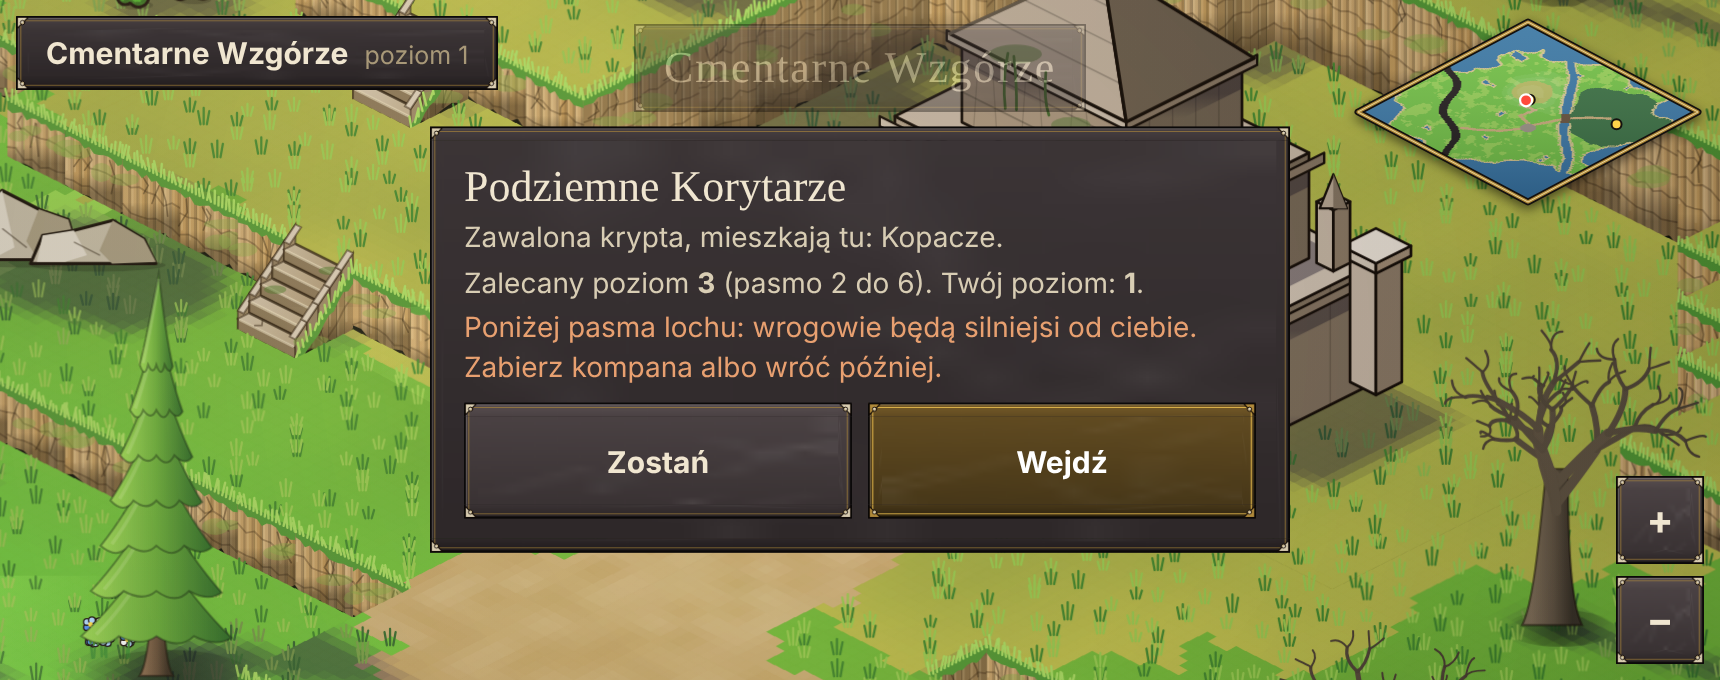
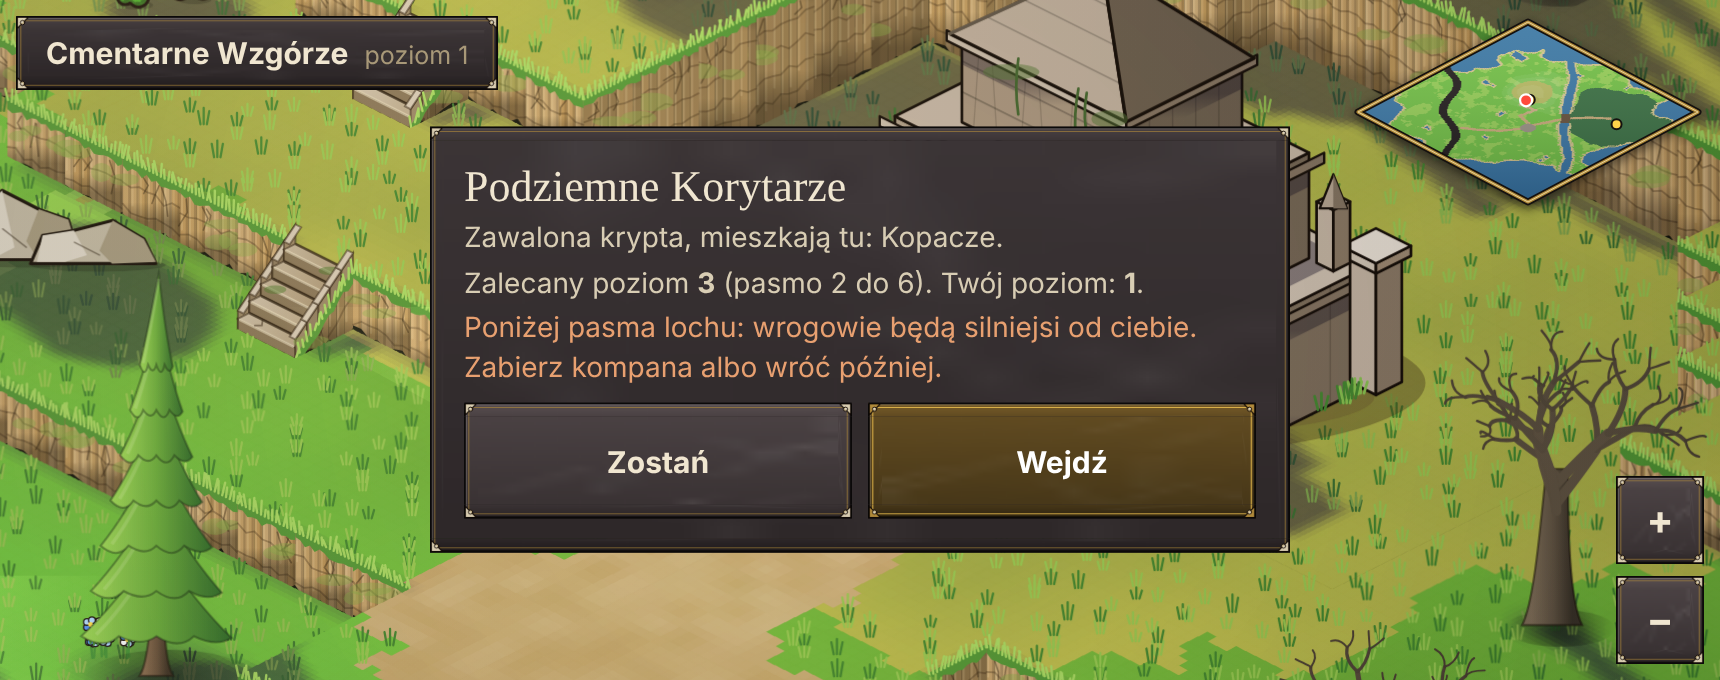
Cienie miękkie i osadzone: gęstsza mapa z rozmyciem, cień ku widzowi, krypta z trzech brył, jama z korzeniami i ściółką, trawa przy podstawie krypty
Claude-Session: https://claude.ai/code/session_01YGgK3XekFYaLDhBRBtmmRq

diff --git a/src/art/entrances.js b/src/art/entrances.js
@@ -37,7 +37,7 @@ export function drawEntrance(g, x, y, sp) {
     // rzeźbione czaszki (w płaszczyźnie ściany), obeliski na narożnikach, piramidowy dach, schody, pochodnie i obozowisko
     const stone = sp.stone, cols = (k) => ({ left: shade(stone, 0.06 - k * 0.03), right: shade(stone, -0.14 - k * 0.03), top: shade(stone, 0.16 - k * 0.04) });
     const colsP = { left: shade(stone, 0.12), right: shade(stone, -0.1), top: shade(stone, 0.24) };
-    blob(10, 5, 150, 30, '#000', 0.34);
+    blob(10, 5, 150, 30, '#000', 0.34); blob(0, 14, 190, 44, '#3a2c18', 0.38); blob(40, 22, 120, 22, '#5a4428', 0.3);
     const tiers = [[210, 150, 70], [160, 112, 62], [108, 76, 54]]; let z = 0; const Ps = [];
     tiers.forEach(([lx, ly, h], i) => {
       // cień piętra wyżej leży na dachu tego niżej (światło z lewej góry rzuca go w prawo)
@@ -96,6 +96,8 @@ export function drawEntrance(g, x, y, sp) {
       ln([P2(-a2, b3, h2 - 2), ap], 2, 'rgba(255,240,210,.3)'); }
     // pochodnie na żelaznych słupach przy portyku
     for (const sd of [-1, 1]) { const t = P0(sd * (px + 26), py + 6, 0), tt = [t[0], t[1] - 70]; ln([t, tt], 3.4, '#2a2018'); ell(tt[0], tt[1] - 2, 6, 3, '#3a3028', 1.4); glowAt(g, tt[0], tt[1] - 12, 50, '255,150,60', 0.55 * sp.glow); g.fillStyle = '#ffb848'; g.beginPath(); g.ellipse(tt[0], tt[1] - 10, 4, 9 + (r() - 0.5) * 3, 0, 0, 7); g.fill(); g.fillStyle = '#fff0b0'; g.beginPath(); g.ellipse(tt[0], tt[1] - 8, 1.8, 4.6, 0, 0, 7); g.fill(); }
+    // kępy trawy i kamyki przy podstawie murów: budowla wyrasta z ziemi, a nie stoi na niej
+    for (let i = 0; i < 26; i++) { const onFront = i < 14, u = onFront ? r.range(-a0 - 10, a0) : r.range(-b0, b0 - 6), p = onFront ? P0(u, b0 + r.range(0, 5), 0) : P0(a0 + r.range(0, 5), u, 0); if (onFront && Math.abs(u) < dw + 40 && Math.abs(u) > 0) continue; const h = r.range(6, 11); g.strokeStyle = r() < 0.5 ? '#3a7a2a' : '#7ab048'; g.lineWidth = 1.6; g.lineCap = 'round'; g.beginPath(); g.moveTo(p[0] - 2, p[1]); g.lineTo(p[0] - 4, p[1] - h); g.moveTo(p[0], p[1]); g.lineTo(p[0], p[1] - h - 2); g.moveTo(p[0] + 2, p[1]); g.lineTo(p[0] + 4, p[1] - h); g.stroke(); }
     // mech i pnącza na piętrach, zawalony narożnik
     if (sp.moss) for (let i = 0; i < 12; i++) { const P = Ps[i % 3], q = P(r.range(-50, 50), 20, r.range(2, 40)); blob(q[0], q[1], r.range(8, 18), r.range(3, 6), '#4a6a30', 0.5); }
     for (let i = 0; i < 3; i++) { const P = Ps[2], t = P(r.range(-30, 30), 38, 54); g.beginPath(); g.moveTo(t[0], t[1]); g.quadraticCurveTo(t[0] + r.range(-6, 6), t[1] + 16, t[0] + r.range(-3, 3), t[1] + r.range(24, 40)); g.lineWidth = 1.6; g.strokeStyle = '#3a5a28'; g.stroke(); }
@@ -106,12 +108,26 @@ export function drawEntrance(g, x, y, sp) {
     for (let i = 0; i < sp.slabs; i++) { const p = P0(-a0 - 70 - i * 22, b0 + 10, 0); grave(g, p[0], p[1], 0.9); }
   } else {
     // olbrzymie drzewo (to samo malarskie drzewo co w lesie, tylko większe) z jamą między korzeniami, pajęczynami i kokonami
-    const tw = sp.trunkW * 1.5, th = sp.height * 1.15;
+    const tw = sp.trunkW * 1.5, th = sp.height * 1.15, hw = tw * 0.34;
+    // podłoże: ciemna ściółka pod koroną i wydeptana ziemia przed dziuplą, żeby drzewo wyrastało z gruntu
+    blob(0, 6, tw * 2.6, 16, '#120c06', 0.5); blob(tw * 0.2, 12, tw * 1.5, 9, '#6a4e2c', 0.7); blob(tw * 0.5, 16, tw * 0.9, 6, '#7e603a', 0.5);
+    for (let i = 0; i < 16; i++) { const lx = r.range(-tw * 2.2, tw * 2.2), ly = r.range(-2, 18); ell(lx, ly, r.range(2, 4), r.range(1, 2), r.pick(['#5a3a1a', '#6a4a22', '#3a4a1a']), 0); }
     drawTree(g, 0, 0, { ...genTree(sp.seed, 'swamp', 'dark'), trunkW: tw * 0.7, trunkH: th, crownW: 150, crownH: 96, blobs: 12, clumps: 22, vines: 12, lean: 4 });
+    // tylne korzenie
     for (let i = 0; i < sp.roots; i++) { const sd = i % 2 ? 1 : -1, t = Math.floor(i / 2), len = tw * (1.0 + t * 0.4) * r.range(0.8, 1.2), yy = r.range(-4, 5) - t * 2; g.beginPath(); g.moveTo(sd * tw * 0.3, -18); g.bezierCurveTo(sd * tw * 0.7, -6 - t, sd * len * 0.9, yy - 8, sd * len * 1.25, yy + 3); g.bezierCurveTo(sd * len * 0.9, yy + 3, sd * tw * 0.8, 4, sd * tw * 0.15, 3); g.closePath(); g.fillStyle = shade(sp.bark, sd < 0 ? 0.05 : -0.05); g.fill(); g.lineWidth = 1.4; g.strokeStyle = 'rgba(20,10,6,.55)'; g.stroke(); }
-    ell(0, -16, tw * 0.5, 26, '#080406', 2.4); glowAt(g, 0, -15, 40, '120,200,140', 0.22 * sp.glow);
-    for (let i = 0; i < sp.webs; i++) { const yy = -36 + i * 8; ln([[-tw * 0.46, yy + 12], [-tw * 0.12, yy], [tw * 0.14, yy + 6], [tw * 0.46, yy + 13]], 1, 'rgba(235,235,250,.8)'); }
-    ln([[-tw * 0.48, -2], [tw * 0.1, -40], [tw * 0.48, -3]], 1, 'rgba(235,235,250,.75)'); ln([[0, -42], [0, -1]], 0.9, 'rgba(235,235,250,.65)');
+    // dziupla: łuk z płaską podłogą, głęboka ciemność i widoczna kora wokół otworu
+    g.beginPath(); g.moveTo(-hw * 1.15, 3); g.lineTo(-hw, -16); g.quadraticCurveTo(-hw * 1.05, -40, 0, -43); g.quadraticCurveTo(hw * 1.05, -40, hw, -16); g.lineTo(hw * 1.15, 3); g.closePath();
+    const hg = g.createRadialGradient(0, -14, 2, 0, -14, hw * 1.7); hg.addColorStop(0, '#020103'); hg.addColorStop(0.7, '#0a100c'); hg.addColorStop(1, '#1d2a20'); g.fillStyle = hg; g.fill(); g.lineWidth = 3.4; g.strokeStyle = '#1e120a'; g.stroke();
+    g.save(); g.beginPath(); g.moveTo(-hw * 1.15, 3); g.lineTo(-hw, -16); g.quadraticCurveTo(-hw * 1.05, -40, 0, -43); g.quadraticCurveTo(hw * 1.05, -40, hw, -16); g.lineTo(hw * 1.15, 3); g.closePath(); g.clip();
+    glowAt(g, 0, -15, 40, '120,200,140', 0.2 * sp.glow); ell(0, 2, hw * 1.1, 4, '#26331f', 0); g.restore();
+    g.strokeStyle = 'rgba(255,225,170,.28)'; g.lineWidth = 1.6; g.beginPath(); g.moveTo(-hw * 1.02, -18); g.quadraticCurveTo(-hw * 1.02, -38, -hw * 0.2, -41.5); g.stroke();
+    // korzenie przed otworem: grube łuki oplatające dziuplę i wrastające w ziemię
+    for (const sd of [-1, 1]) { const x0 = sd * hw * 1.05; g.lineCap = 'round';
+      for (const [wd, col] of [[10, shade(sp.bark, -0.18)], [7, sp.bark], [2.6, shade(sp.bark, 0.2)]]) { g.beginPath(); g.moveTo(x0, -36); g.bezierCurveTo(sd * hw * 2.4, -30, sd * hw * 2.6, -8, sd * hw * 3.6, 5); g.lineWidth = wd; g.strokeStyle = col; g.stroke(); }
+      blob(sd * hw * 3.6, 5, 10, 4, '#120c06', 0.5); }
+    for (let i = 0; i < 9; i++) { const gx = r.range(-tw * 1.7, tw * 1.7), gy = r.range(2, 12); g.strokeStyle = r() < 0.5 ? '#2f5a2c' : '#4a7a3a'; g.lineWidth = 1.5; g.beginPath(); g.moveTo(gx - 2, gy); g.lineTo(gx - 3.5, gy - 8); g.moveTo(gx, gy); g.lineTo(gx, gy - 10); g.moveTo(gx + 2, gy); g.lineTo(gx + 3.5, gy - 8); g.stroke(); }
+    for (let i = 0; i < sp.webs; i++) { const yy = -36 + i * 8; ln([[-hw * 1.05, yy + 12], [-hw * 0.3, yy], [hw * 0.35, yy + 6], [hw * 1.05, yy + 13]], 1, 'rgba(235,235,250,.8)'); }
+    ln([[-hw * 1.05, -2], [hw * 0.3, -40], [hw * 1.05, -3]], 1, 'rgba(235,235,250,.75)'); ln([[0, -42], [0, -1]], 0.9, 'rgba(235,235,250,.65)');
     if (sp.eyes) { circ(-6, -17, 2, '#ffe060', 0); circ(6, -17, 2, '#ffe060', 0); glowAt(g, 0, -17, 20, '255,220,90', 0.4); }
     for (let i = 0; i < sp.eggs + 3; i++) { const ex2 = r.range(-tw * 1.5, tw * 1.5), ey2 = r.range(-2, 12), s2 = r.range(3, 5); ell(ex2, ey2 - s2, s2, s2 * 1.3, '#d4d0c4', 1.3); }
     for (let i = 0; i < sp.shrooms + 3; i++) { const mx = r.range(-tw * 1.4, tw * 1.4), my = r.range(-2, 10), s2 = r.range(2.5, 5); ln([[mx, my], [mx, my - s2 * 1.4]], 1.8, '#e0d8c0'); ell(mx, my - s2 * 1.5, s2 * 1.4, s2 * 0.9, '#a05a3a', 1.2); }

diff --git a/src/art/worldview.js b/src/art/worldview.js
@@ -13,7 +13,7 @@ import { genTree, drawTree } from './trees.js';
 import * as NA from './nature.js';
 import { lampPost, bench, barrel, crate, cart, sack, logs } from './props.js';
 
-export const MAXZ = 8, CS = 6, SUB = 8, SHS = 6;
+export const MAXZ = 8, CS = 6, SUB = 8, SHS = 12, SHB = 2;
 
 export const makeGrid = () => new IsoGrid(N, N, { x: N * 36, y: MAXZ * HZ + 60 });
 
@@ -58,26 +58,33 @@ export class WorldView {
   }
   // mapa cieni bloku: próbki 4 x 4 na kafel (z ramką 1), liczone raz przy pieczeniu; cień rzucają teren, drzewa, budynki, a pod koronami jest półcień
   shadeGrid(x0, y0) {
-    const S = SHS, n = CS * S + 2, arr = new Float32Array(n * n), w = this.w;
+    const S = SHS, B = SHB, n = CS * S + 2 * B, arr = new Float32Array(n * n), w = this.w;
     for (let j = 0; j < n; j++) for (let i = 0; i < n; i++) {
-      const px = x0 + (i - 1 + 0.5) / S, py = y0 + (j - 1 + 0.5) / S; if (px < 0 || py < 0 || px >= N || py >= N) continue;
+      const px = x0 + (i - B + 0.5) / S, py = y0 + (j - B + 0.5) / S; if (px < 0 || py < 0 || px >= N || py >= N) continue;
       const kind = w.cellKind[Math.floor(py) * N + Math.floor(px)]; if (kind === w.KIND.water || kind === w.KIND.chasm) continue;
       const z = heightAt(w, px, py), sun = sunShadow(w, this.occ, px, py, z), can = canopyShade(w, this.occ, px, py, 5);
-      arr[j * n + i] = Math.min(0.58, 0.44 * sun + 0.4 * can);
+      arr[j * n + i] = Math.min(0.58, 0.5 * sun + 0.4 * can);
     }
-    const bl = new Float32Array(n * n); for (let j = 1; j < n - 1; j++) for (let i = 1; i < n - 1; i++) { let v = 0; for (let dj = -1; dj <= 1; dj++) for (let di = -1; di <= 1; di++) v += arr[(j + dj) * n + i + di] * (di || dj ? 1 : 2); bl[j * n + i] = v / 10; }
+    // rozmycie 5 x 5 (trójkątne wagi 1 2 3 2 1): miękki półcień zamiast schodków
+    const K = [1, 2, 3, 2, 1], tmp = new Float32Array(n * n), bl = new Float32Array(n * n);
+    for (let j = 0; j < n; j++) for (let i = 2; i < n - 2; i++) { let v = 0; for (let d = -2; d <= 2; d++) v += arr[j * n + i + d] * K[d + 2]; tmp[j * n + i] = v / 9; }
+    for (let j = 2; j < n - 2; j++) for (let i = 0; i < n; i++) { let v = 0; for (let d = -2; d <= 2; d++) v += tmp[(j + d) * n + i] * K[d + 2]; bl[j * n + i] = v / 9; }
     return { x0, y0, n, arr, bl };
   }
   drawTile(g, tx, ty) {
     const w = this.w, k = ty * N + tx, z = this.cornersZ(tx, ty), P = (fx, fy, zz) => this.proj(tx + fx, ty + fy, zz), K = w.KIND, kind = w.cellKind[k];
     if (w.ramp[k]) return this.drawRamp(g, tx, ty, z);
-    const e = 0.7, SUBN = SHS, sg = this.sg, sn = sg.n, six = (tx - sg.x0) * SHS + 1, siy = (ty - sg.y0) * SHS + 1, TINT = [22, 12, 52]; let tileShade = 0;
+    const e = 0.7, SUBN = SUB - 2, R = SHS / SUBN, sg = this.sg, sn = sg.n, six = (tx - sg.x0) * SHS + SHB, siy = (ty - sg.y0) * SHS + SHB, TINT = [22, 12, 52]; let tileShade = 0;
+    const mix = (col, sh) => (sh > 0.01 ? rgbStr([col[0] + (TINT[0] - col[0]) * sh, col[1] + (TINT[1] - col[1]) * sh, col[2] + (TINT[2] - col[2]) * sh]) : rgbStr(col));
+    const quad = (u0, v0, u1, v1, zz) => { const a = P(u0, v0, zz), b = P(u1, v0, zz), c = P(u1, v1, zz), d = P(u0, v1, zz); g.beginPath(); g.moveTo(a[0], a[1] - e); g.lineTo(b[0] + e, b[1]); g.lineTo(c[0], c[1] + e); g.lineTo(d[0] - e, d[1]); g.closePath(); g.fill(); };
     for (let j = 0; j < SUBN; j++) for (let i = 0; i < SUBN; i++) {
-      const u0 = i / SUBN, u1 = (i + 1) / SUBN, v0 = j / SUBN, v1 = (j + 1) / SUBN, zz = z[0];
-      const a = P(u0, v0, zz), b = P(u1, v0, zz), c = P(u1, v1, zz), d = P(u0, v1, zz);
-      const col = groundRGB(w, tx + (u0 + u1) / 2, ty + (v0 + v1) / 2), sh = sg.bl[(siy + j) * sn + six + i]; tileShade += sh;
-      g.fillStyle = sh > 0.01 ? rgbStr([col[0] + (TINT[0] - col[0]) * sh, col[1] + (TINT[1] - col[1]) * sh, col[2] + (TINT[2] - col[2]) * sh]) : rgbStr(col);
-      g.beginPath(); g.moveTo(a[0], a[1] - e); g.lineTo(b[0] + e, b[1]); g.lineTo(c[0], c[1] + e); g.lineTo(d[0] - e, d[1]); g.closePath(); g.fill();
+      const u0 = i / SUBN, u1 = (i + 1) / SUBN, v0 = j / SUBN, v1 = (j + 1) / SUBN, zz = z[0], col = groundRGB(w, tx + (u0 + u1) / 2, ty + (v0 + v1) / 2);
+      // R x R próbek cienia na jeden kolorowy romb; gdy cień w nim niemal stały, jeden romb, a w półcieniu dzielimy dalej
+      const sv = []; let lo = 9, hi = -9, sum = 0;
+      for (let q = 0; q < R * R; q++) { const v = sg.bl[(siy + j * R + Math.floor(q / R)) * sn + six + i * R + (q % R)]; sv.push(v); lo = Math.min(lo, v); hi = Math.max(hi, v); sum += v; }
+      tileShade += sum / (R * R);
+      if (hi - lo < 0.025) { g.fillStyle = mix(col, sum / (R * R)); quad(u0, v0, u1, v1, zz); continue; }
+      for (let q = 0; q < R * R; q++) { const qi = q % R, qj = Math.floor(q / R); g.fillStyle = mix(col, sv[q]); quad(u0 + qi / (R * SUBN), v0 + qj / (R * SUBN), u0 + (qi + 1) / (R * SUBN), v0 + (qj + 1) / (R * SUBN), zz); }
     }
     tileShade /= SUBN * SUBN;
     // trawiaste kępki malarsko pokrywają równe powierzchnie

diff --git a/src/world/shadowmap.js b/src/world/shadowmap.js
@@ -1,11 +1,11 @@
 // Mapa cieni świata: dla punktu gruntu liczy, czy promień do słońca przechodzi przez teren (ściany tarasów), drzewa, budynki albo wejścia.
-// Czysta logika, bez rysowania. Światło pada z lewej góry (na ekranie), więc cienie biegną w stronę +x i trochę -y siatki.
+// Czysta logika, bez rysowania. Światło pada z lewej góry (na ekranie), więc cienie biegną w stronę +x i trochę +y siatki (w prawo i w dół, ku widzowi).
 // Wysokości w poziomach (1 poziom = HZ px). Cień jest więc zawsze rzutowany na właściwą platformę, a ściana tarasu rzuca cień na niższy.
 import { N } from './kraina.js';
 import { heightAt } from './nav.js';
 import { hash2 } from './noise.js';
 
-export const SUN = { dx: 0.96, dy: -0.28, k: 0.5 };   // kierunek cienia w siatce (jednostkowy) i długość cienia na poziom wysokości
+export const SUN = { dx: 0.97, dy: 0.24, k: 0.8 };   // kierunek cienia w siatce (jednostkowy) i długość cienia na poziom wysokości
 const LEN = Math.hypot(SUN.dx, SUN.dy), DX = SUN.dx / LEN, DY = SUN.dy / LEN;
 
 // opis przeszkód: korona (walec lub stożek) + pień, rozmiary w kaflach i poziomach
@@ -36,7 +36,7 @@ export function buildOccluders(world) {
   }
   for (const e of world.entrances) {
     const z = heightAt(world, e.at[0], e.at[1]);
-    if (e.kind === 'krypta') { const o = { t: 'b', x0: e.at[0] - 1.5, x1: e.at[0] + 1.5, y0: e.at[1] - 1.15, y1: e.at[1] + 1.15, z0: z, z1: z + 5.6 }; add(bins, { ...o, x: e.at[0], y: e.at[1] }, 2); }
+    if (e.kind === 'krypta') for (const [hx, hy, h] of [[1.4, 1.02, 1.95], [1.05, 0.76, 3.65], [0.7, 0.5, 5.2]]) { const o = { t: 'b', x0: e.at[0] - hx, x1: e.at[0] + hx, y0: e.at[1] - hy, y1: e.at[1] + hy, z0: z, z1: z + h }; add(bins, { ...o, x: e.at[0], y: e.at[1] }, 2); }
     else { add(bins, cyl(e.at[0], e.at[1], z, z + 3.8, 0.55, 0.55), 0.8); add(bins, cyl(e.at[0], e.at[1], z + 3.4, z + 8.2, 1.9, 1.4), 2); add(ao, { x: e.at[0], y: e.at[1], r: 2.1, k: 'swamp' }, 2.2); }
   }
   return { bins, ao };
